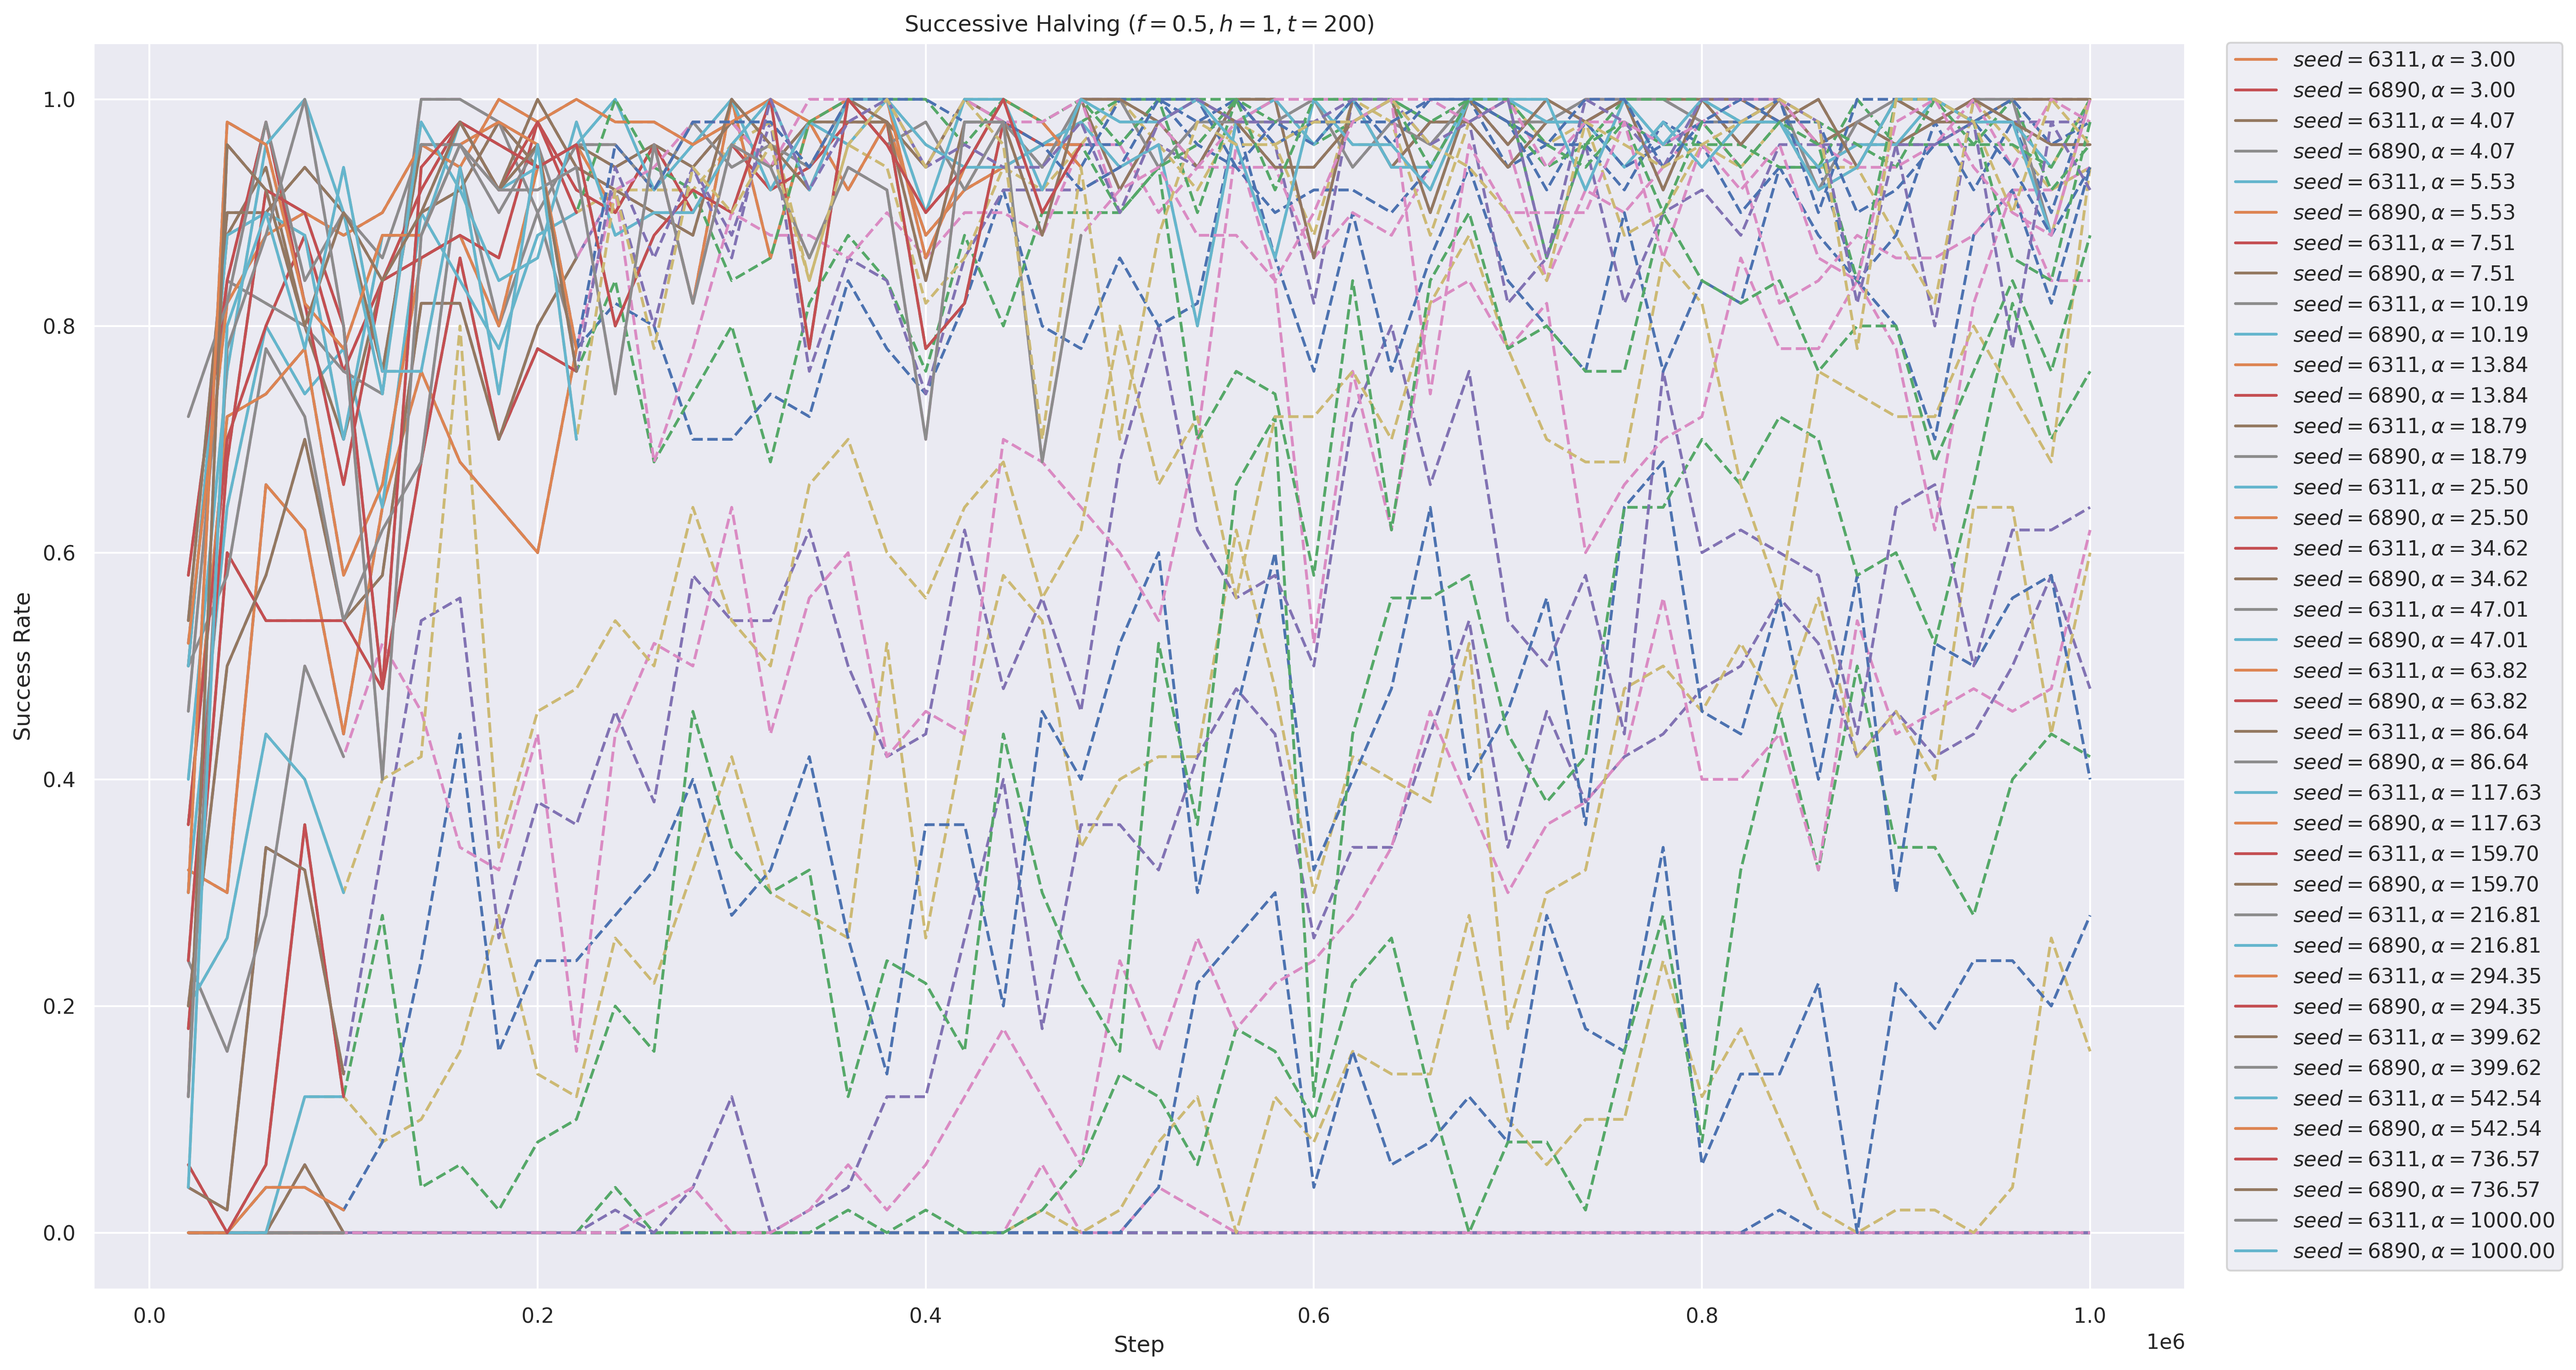
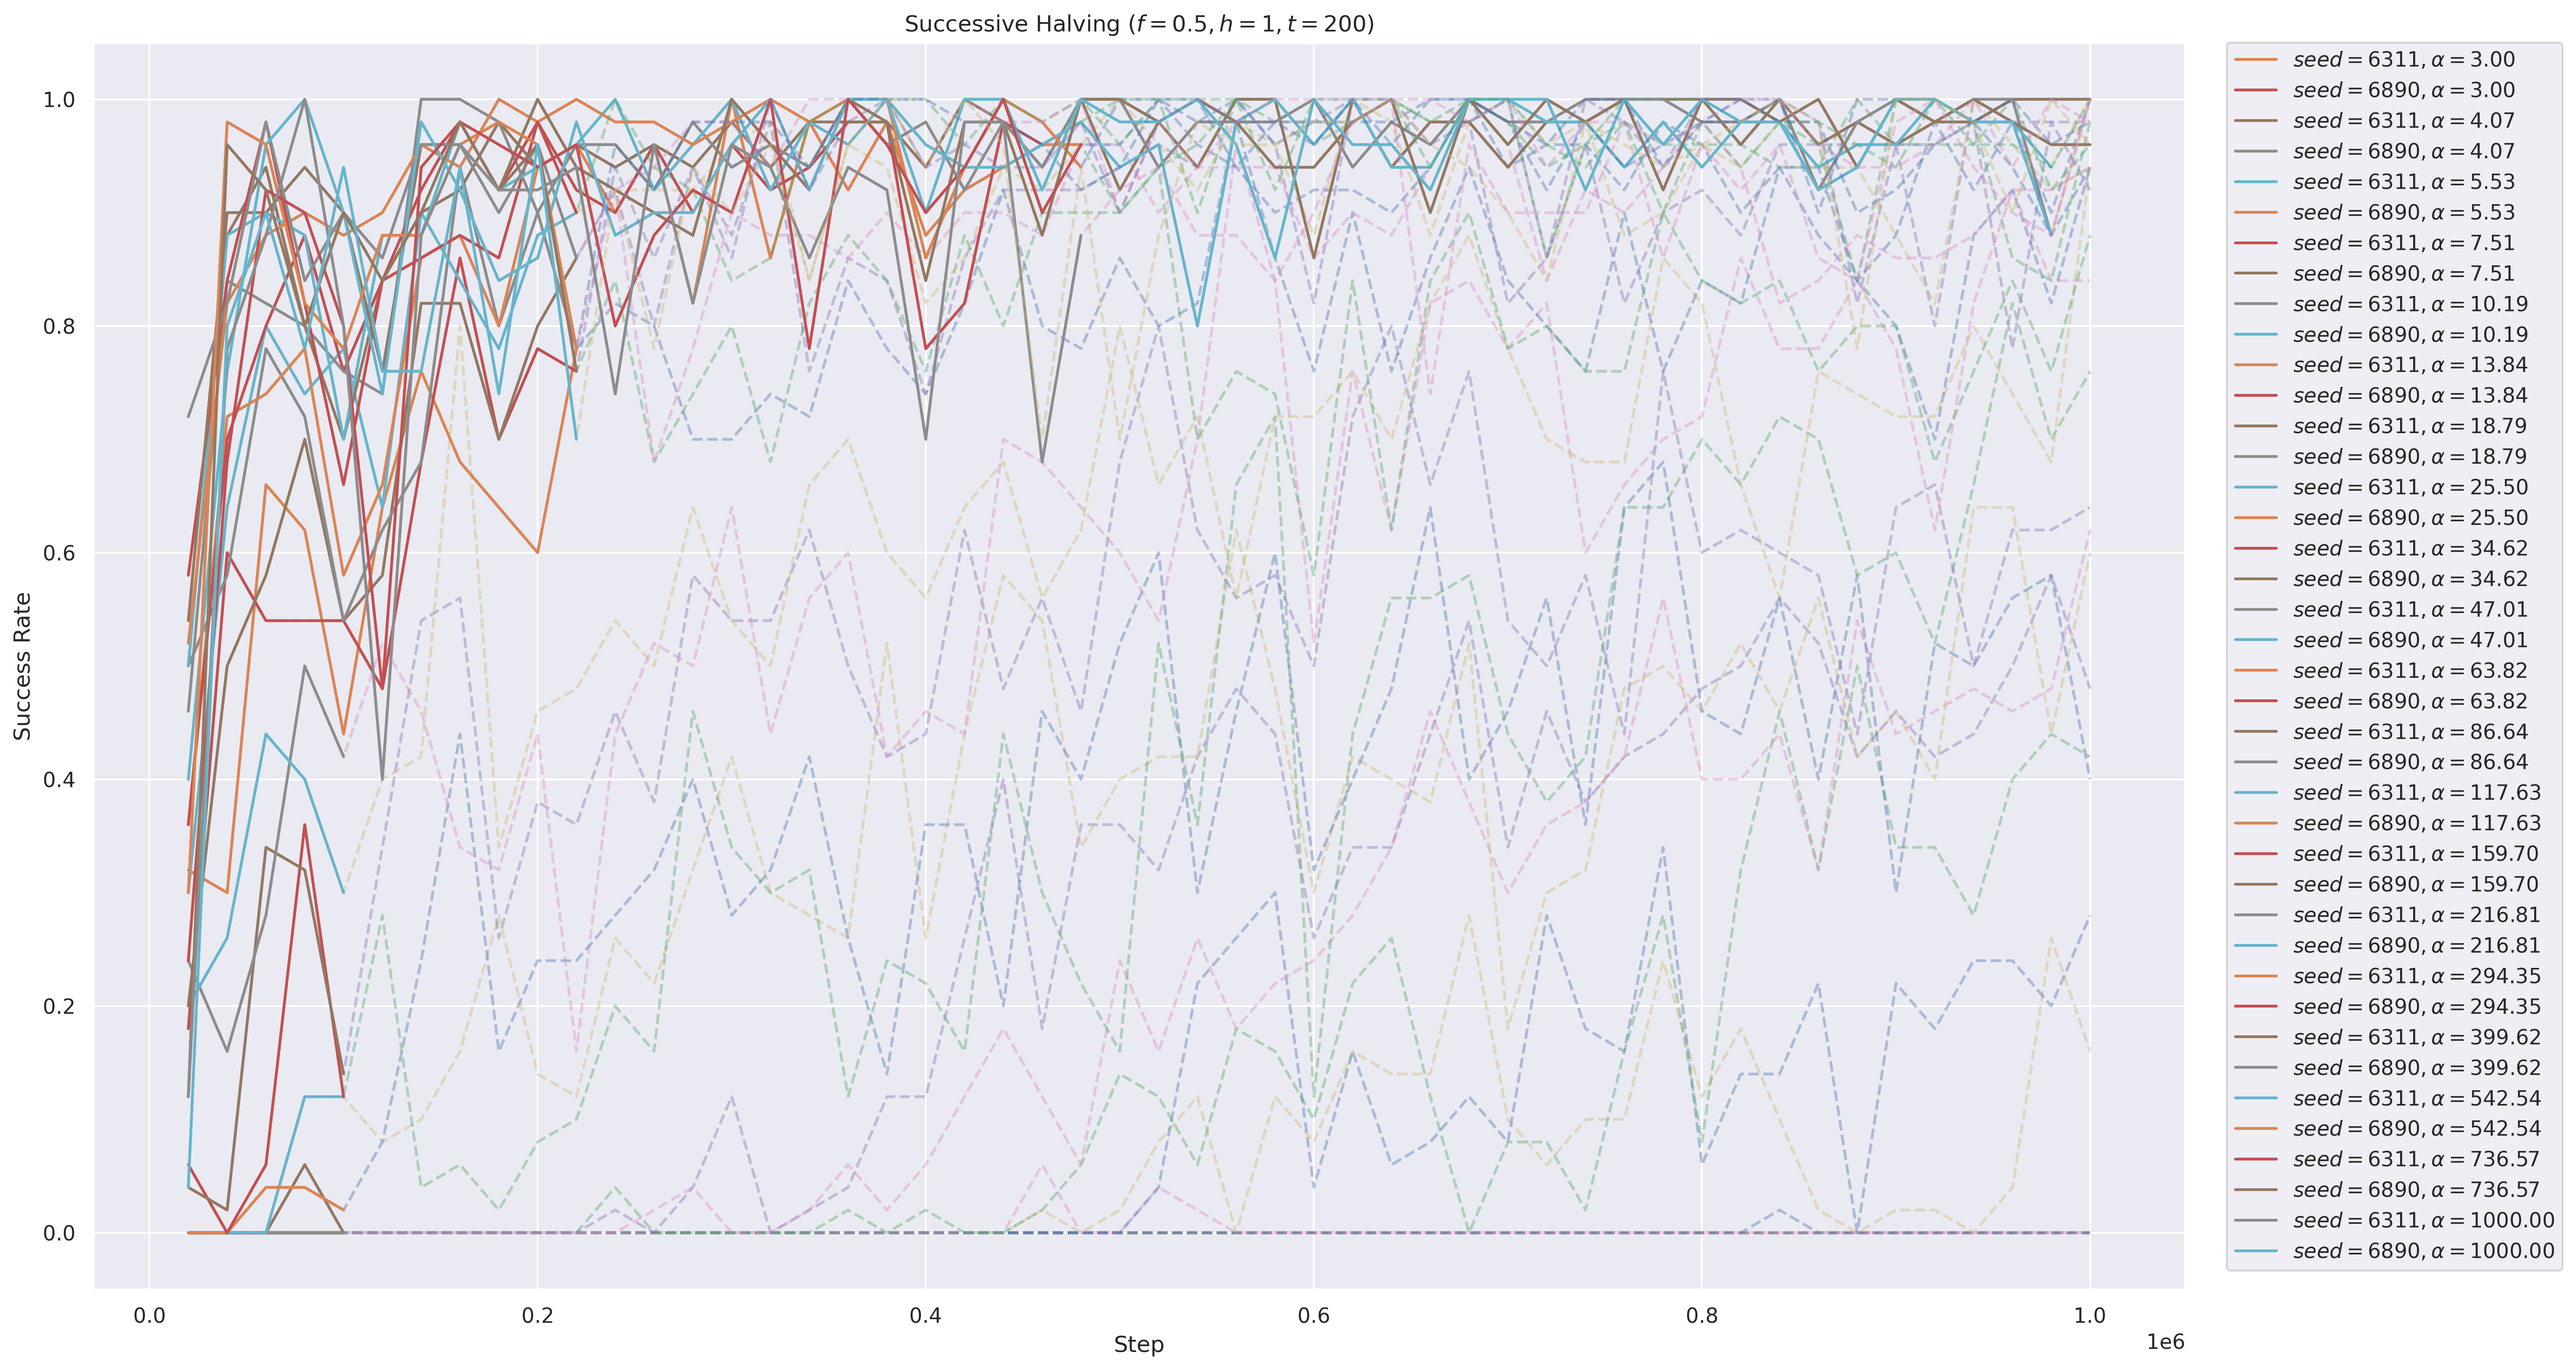
highlighting the better experiments

diff --git a/evaluator/strategy_evaluator.py b/evaluator/strategy_evaluator.py
@@ -68,7 +68,8 @@ class StrategyEvaluator:
                 data=data,
                 x="step",
                 y="success",
-                linestyle="--"
+                linestyle="--",
+                alpha=0.4
             )
             sns.lineplot(
                 data=data[data["step"] <= experiment.current_step],
